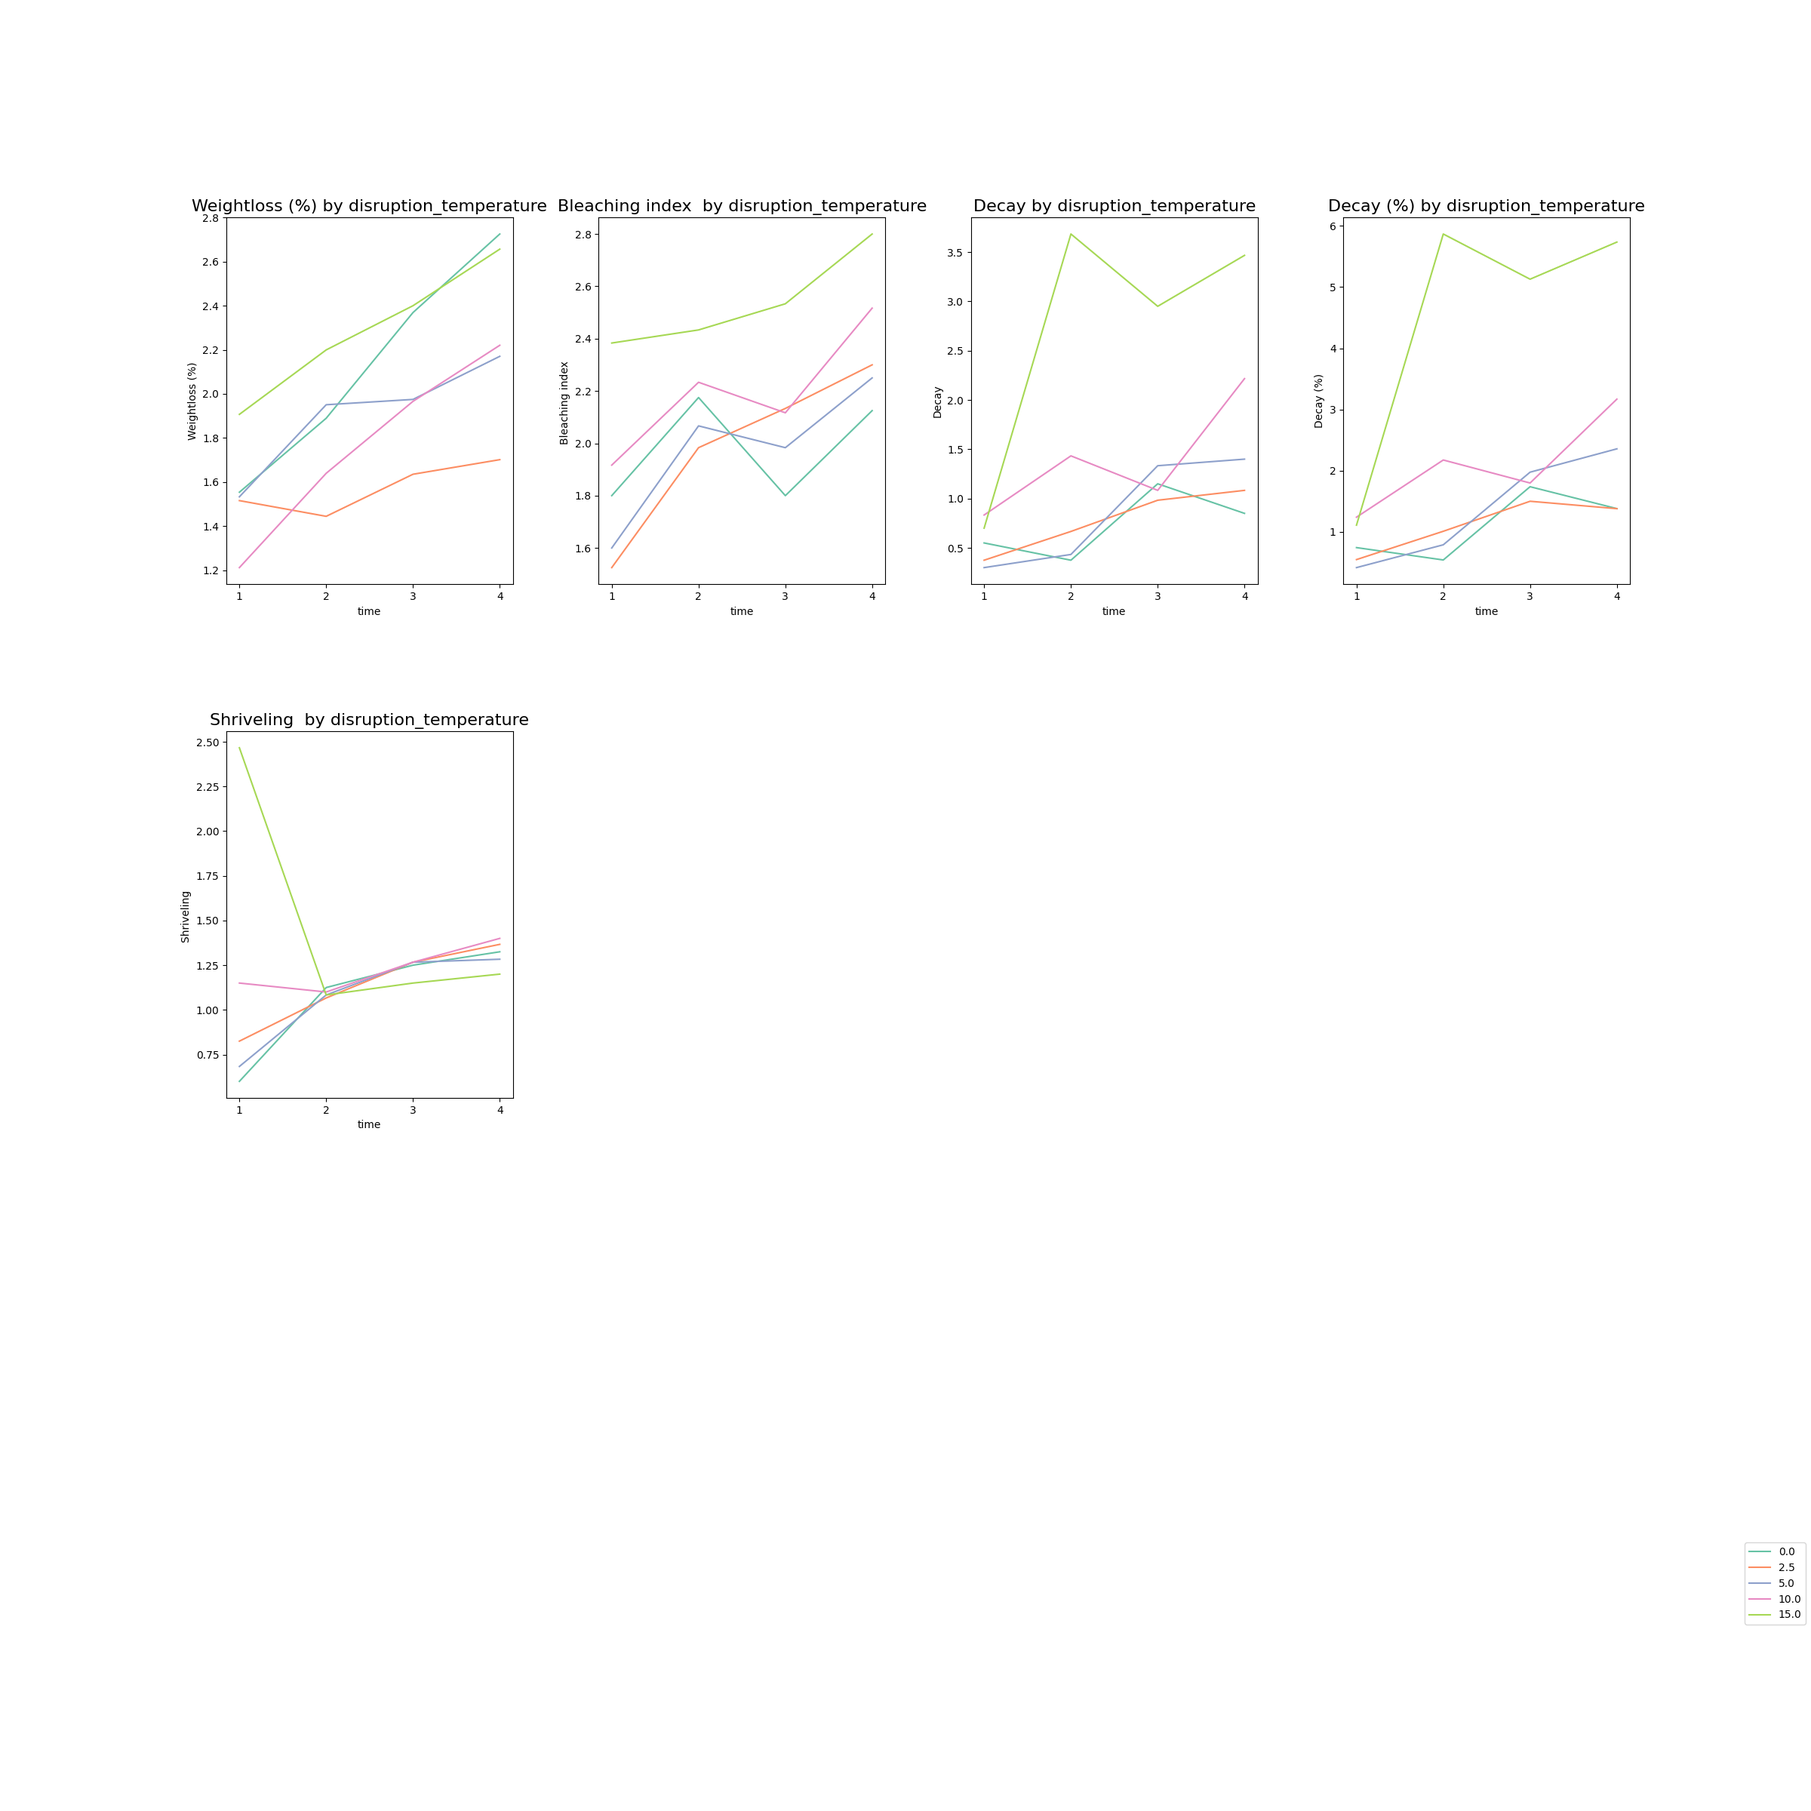
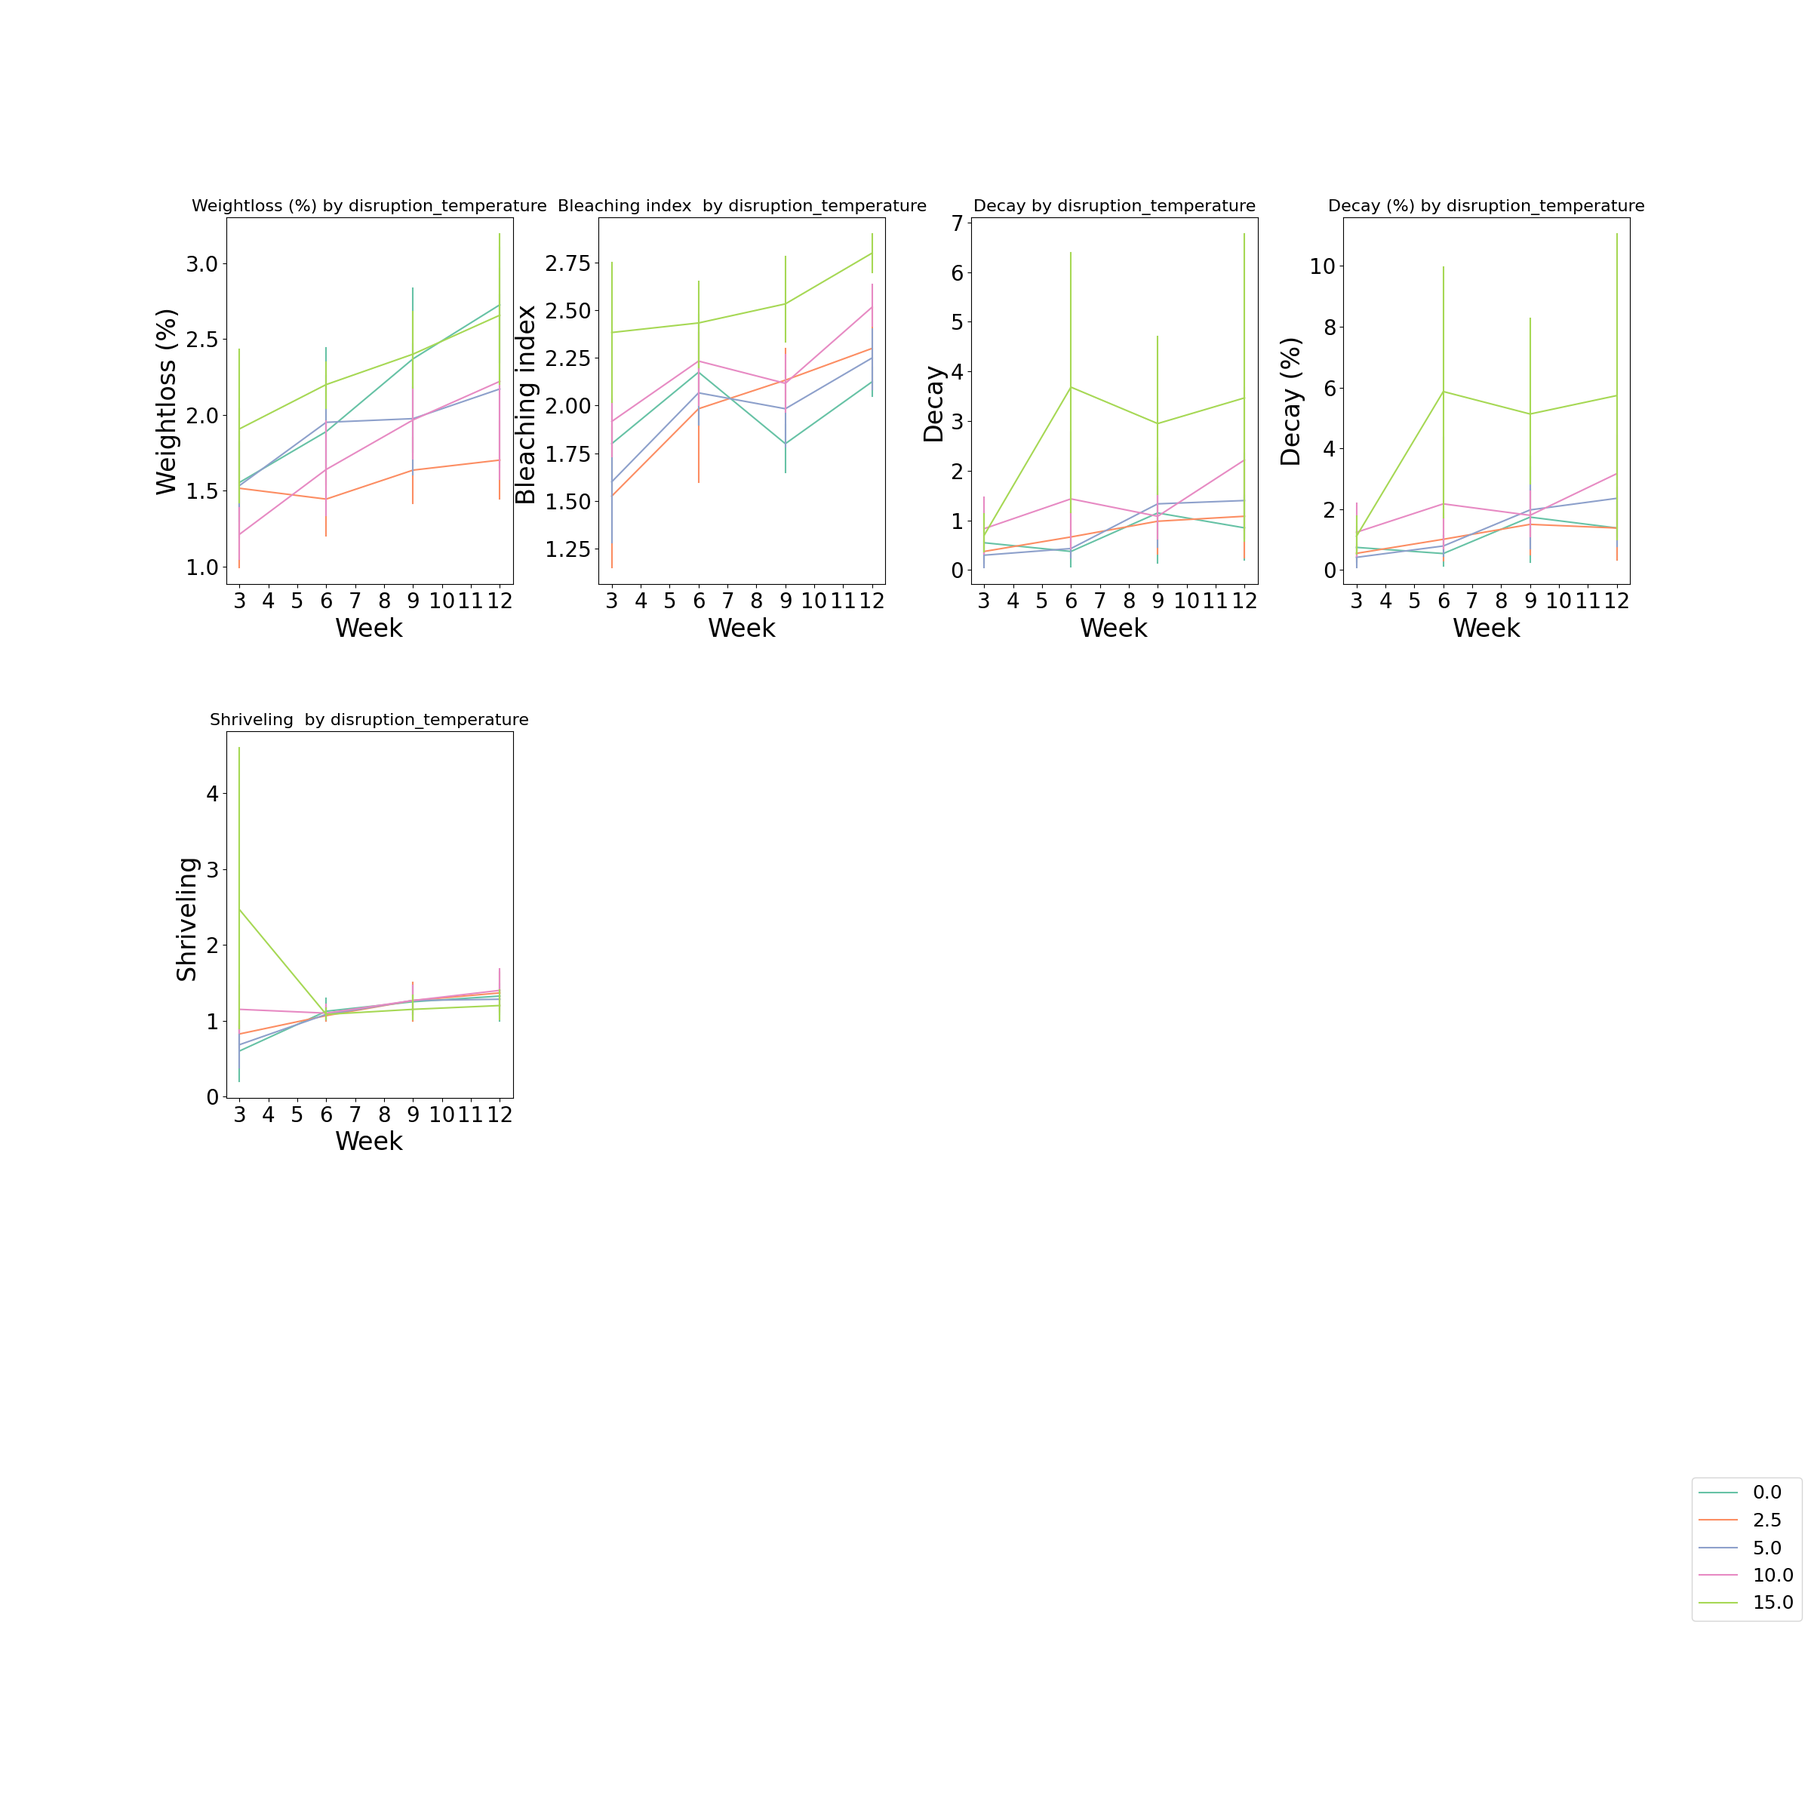
sorted heatmap + labels

diff --git a/main.py b/main.py
@@ -7,7 +7,11 @@ import matplotlib.ticker as ticker
 import numpy as np
 from collections import Counter
 import copy
+from tsfresh import extract_features, extract_relevant_features, select_features
+from tsfresh.utilities.dataframe_functions import impute
+from tsfresh.feature_extraction import ComprehensiveFCParameters
 import datetime
+import tsfresh
 
 pd.options.mode.chained_assignment = None
 PATH = 'data/Grapes-Vineyard A.xlsx'
@@ -41,7 +45,7 @@ COLS_ONLY_OUT = ['Weightloss (%)', 'Bleaching index ', 'Decay', 'Decay (%)', 'Sh
 NOT_PRINT_TRENDS = ['Vineyard', 'Treatment', 'Replication', 'Time', 'Vineyard_Number_of_measures', 'Vineyard_index',
                     'Vineyard_Std_index', 'Vineyard_Incidence', 'new_time', 'treatment', 'mapped_period']
 
-DIMS_FOR_GRAPHS = ['Vineyard', 'new_time', 'disruption_temperature', 'disruption_length']
+DIMS_FOR_GRAPHS = ['Vineyard', 'new_time', 'disruption_temperature', 'disruption_length', 'Treatment']
 COLS_HUE = ['disruption_length', 'disruption_temperature']
 
 
@@ -139,6 +143,7 @@ def get_prep_df(path, path_b, path_v, treatment_dict: dict) -> pd.DataFrame:
         'III': 3,
         'IV': 4
     }
+
     new_df['new_time'] = new_df['Time'].map(match).fillna(0)
     new_df = new_df.merge(pd.DataFrame(treatment_dict).T[[1, 3]], how='left', left_on='Treatment', right_index=True)
     new_df.rename(columns={1: 'disruption_length', 3: 'disruption_temperature'}, inplace=True)
@@ -150,15 +155,18 @@ def plot_correl_matrix(corr_mat: pd.DataFrame, correlation_name: str):
     :param corr_mat: correlation matrix prepared to create the datafram
     :return: figure of correlation matrix
     '''
+
     corr_mat.index = pd.CategoricalIndex(corr_mat.index)
     corr_mat.sort_index(level=0, inplace=True)
     sns.set(font_scale=0.6)
     if correlation_name == 'in_vs_in':
-        cols = corr_mat.columns.sort_values() # plot ordered heatmap
+        cols = corr_mat.columns.sort_values()  # plot ordered heatmap
         corr_mat = corr_mat[cols]
-        grpah = sns.heatmap(corr_mat, cmap='YlGnBu',vmin=-1, vmax=1, annot=True)
+        mask = np.triu(np.ones_like(corr_mat)).astype(bool)
+        grpah = sns.heatmap(corr_mat, mask=mask, square=True, cmap='YlGnBu', vmin=-1, vmax=1, annot=True, fmt='.2f')
+        grpah.invert_xaxis()
     else:
-        grpah = sns.heatmap(corr_mat, cmap='YlGnBu', vmin=-1, vmax=1, annot=True)
+        grpah = sns.heatmap(corr_mat, cmap='YlGnBu', vmin=-1, vmax=1, annot=True, fmt='.3f')
     plt.rcParams["axes.labelsize"] = 15
     fig5 = plt.gcf()
     plt.tight_layout()
@@ -181,7 +189,7 @@ def create_pearson_correl(df: pd.DataFrame, col_list_in: list, col_list_out: lis
     # in features vs in features
     df_in = df[col_list_in]
     correl = df_in.corr()
-    plot_correl_matrix(correl,correlation_name='in_vs_in')
+    plot_correl_matrix(correl, correlation_name='in_vs_in')
 
     # in features vs. out features
     df_out = df[col_list_out]
@@ -193,7 +201,7 @@ def create_pearson_correl(df: pd.DataFrame, col_list_in: list, col_list_out: lis
     out_cols = [col for col in correl_out.columns if '_out' in col]
     correl_out = correl_out[out_cols]
     correl_out = correl_out[~correl_out.index.str.contains('_out')]
-    plot_correl_matrix(correl_out,correlation_name='in_vs_out')
+    plot_correl_matrix(correl_out, correlation_name='in_vs_out')
 
 
 def get_storage_per_treatment(storage_df: dict, exp_desc: dict):
@@ -246,6 +254,23 @@ def map_weeks(row):
         return 9999
 
 
+def get_data_from_tsfresh(treatment_num: int, df: pd.DataFrame, storage_features: list = ['Humidity', 'Temperature']):
+    '''
+    :param treatment_num: int that represnt the treatment. this will be the key for tsfresh package
+    :param df: dataframe of the storage frm treatment side. i.e. storage log per treatment
+    :param storage_features: list of all features exist in the log.
+    :return: df with x rows per each treatment, each row is a feature.
+    '''
+    data_for_tsfresh = df[['Date', 'Time', 'Humidity', 'Temperature']]
+    data_for_tsfresh['treatment'] = treatment_num
+    data_for_tsfresh.reset_index(inplace=True)
+    tsfresh_extracted_features = {}
+    for feature in storage_features:
+        data_tsfresh = data_for_tsfresh[['treatment', 'index', feature]]
+        extracted_features = extract_features(data_tsfresh, column_id='treatment', column_sort='index')
+        tsfresh_extracted_features[feature] = extracted_features
+    return pd.concat([tsfresh_extracted_features['Humidity'],tsfresh_extracted_features['Temperature']],axis=1)
+
 def get_relevant_data_per_period(storage_dict: dict):
     '''
     :param storage_dict: dictionary contians storage data
@@ -262,7 +287,17 @@ def get_relevant_data_per_period(storage_dict: dict):
             relevant_data['std_temp_in_period'] = relevant_data['Temperature'].std()
             relevant_data['avg_humidity_in_period'] = relevant_data['Humidity'].mean()
             relevant_data['std_humidity_in_period'] = relevant_data['Humidity'].std()
+            ######### Omer / Demayo - this are the problem part - I first use this get_data_from_tsfresh
+            #  this function is OK. Now I want to take the result of this function and
+            # combine it with the last row of relevant_data (relevant_data.iloc[-1:])
+            # the problem is when I use cross join, some columns are disappearing, and it makes no sense.
+            #
+            tsfresh_treatment_data = get_data_from_tsfresh(treatment_num=treatments, df=relevant_data,
+                                                           storage_features=['Humidity', 'Temperature'])
+            all_storage_and_tsfresh_data = pd.merge(relevant_data.iloc[-1:], tsfresh_treatment_data, how='cross')
+            #this is what I want to do --> final_storage_data_per_treatment[i] = all_storage_and_tsfresh_data
             final_storage_data_per_treatment[i] = relevant_data.iloc[-1:]
+
         data_storage_for_all_periods[treatments] = pd.concat(final_storage_data_per_treatment)
     return pd.concat(data_storage_for_all_periods)
 
@@ -285,7 +320,8 @@ def flatten_data_to_grpah(dim_list: list, df: pd.DataFrame, col_name: str, col_n
     return df_for_graph
 
 
-def plot_graph(df: pd.DataFrame, col_name: str, dim_list: list, hue: str, tmp_dim_list: list, axs):
+def plot_graph(df: pd.DataFrame, col_name: str, dim_list: list, hue: str, tmp_dim_list: list, axs,
+               dist_week=None, dist_temp=None):
     '''
 
     :param df: flatten data frame with structered known data
@@ -300,12 +336,20 @@ def plot_graph(df: pd.DataFrame, col_name: str, dim_list: list, hue: str, tmp_di
     dim_list_for_grpah = dim_list + [col_name]
     sns.set_palette("Set2")
     axs = sns.lineplot(data=df_plot, x="new_time",
-                       y=col_name, hue=hue, ci=None, legend=True, palette='Set2')
-
-    # sns.color_palette("Paired")
+                       y=col_name, hue=hue, ci=95, legend=True, palette='Set2',
+                       err_style="bars")
+    if df_plot is None:
+        axs = sns.lineplot(data=pd.DataFrame(), x="new_time",
+                           y=col_name, hue=hue)
     axs.xaxis.set_major_locator(ticker.MultipleLocator(1))
-    axs.set(xlabel='time', ylabel=col_name)  # , title=col_name + 'by ' + hue)
-    axs.set_title(label=col_name + ' by ' + hue, size=16)
+    axs.set(xlabel='time', ylabel=col_name)
+    axs.tick_params(axis='both', labelsize=20)
+    axs.set_xlabel('Week', fontsize=24)
+    axs.set_ylabel(col_name, fontsize=24)
+    if dist_week:
+        axs.set_title(label=col_name + ':  weeks_dist: ' + str(dist_week) + '  temp_dist: ' + str(dist_temp), size=14)
+    else:
+        axs.set_title(label=col_name + ' by ' + hue, size=16)
     axs.plot()
 
 
@@ -375,9 +419,11 @@ def create_all_subplots(features_list: list, full_storage_data: pd.DataFrame, da
                                                        1] if features_list_t0 is not None else None)  # take t0 data if exist
             df_plot_check = data_for_grpah.fillna(np.inf).groupby(dimension_list)[[tup[0]]].mean().replace(np.inf,
                                                                                                            np.nan).reset_index()
+            # new_df['new_time'] = new_df['Time'].map(match).fillna(0)
             data_for_grpah['disruption_length'] = np.where(data_for_grpah['disruption_length'] == 12, 0,
                                                            data_for_grpah[
                                                                'disruption_length'])  # mapping 12 to 0 for graphs
+            data_for_grpah['new_time'] = data_for_grpah['new_time'] * 3
             if (df_plot_check[[hue, tup[0]]][tup[0]]).nunique() > max(df_plot_check[hue].nunique(), 4):
                 ax = fig.add_subplot(Rows, ncols, i_print)
                 plot_graph(df=data_for_grpah, col_name=tup[0], dim_list=dimension_list, hue=hue,
@@ -385,32 +431,99 @@ def create_all_subplots(features_list: list, full_storage_data: pd.DataFrame, da
                 i_print += 1
                 ax.get_legend().remove()
         handles, labels = ax.get_legend_handles_labels()
-        fig.legend(handles, labels, loc='lower right', bbox_to_anchor=(1, 0.1))
+        fig.legend(handles, labels, fontsize=18, loc='lower right', bbox_to_anchor=(1, 0.1))
         fig2 = plt.gcf()
         plt.show()
         plt.draw()
         fig2.savefig('figures_update/' + str(data_place_in_dict) + '_' + hue + '_' + str(i) + '.png')
 
 
+def create_all_subplots_per_each_fruit_feature(features_list: list, full_storage_data: pd.DataFrame,
+                                               data_place_in_dict: int,
+                                               features_list_t0: list = None, dimension_list=DIMS_FOR_GRAPHS
+                                               ):
+    '''
+
+    :return: number of facets, in each facet there will be subplots
+    '''
+    temp_dim_list = copy.copy(DIMS_FOR_GRAPHS)
+    temp_dim_list.remove("new_time")
+
+    # Compute Rows required
+    Cols = full_storage_data['disruption_length'].nunique()
+    Rows = full_storage_data['disruption_temperature'].nunique()
+
+    data = (features_list, features_list_t0, range(len(features_list)))
+    if features_list_t0 is None:
+        data = (features_list, range(len(features_list)))
+
+    # loop for each feature
+    for i, feature in enumerate(data[0]):
+        fig = plt.figure(figsize=(24, 24))
+        fig.subplots_adjust(hspace=0.4, wspace=0.3)
+        i_print = 1
+        # loop for each combination of length & temp
+        # for tup in zip(*data):
+        data_for_grpah = flatten_data_to_grpah(dim_list=dimension_list, df=full_storage_data, col_name=data[0][i],
+                                               col_name_t0=data[1][
+                                                   i] if features_list_t0 is not None else None)  # take t0 data if exist
+        data_for_grpah['new_time'] = data_for_grpah['new_time'] * 3
+        # ax = fig.add_subplot(Rows, Cols, i_print)
+        for temp in sorted(full_storage_data['disruption_temperature'].unique()):
+            for length in sorted(full_storage_data['disruption_length'].unique()):
+                data_for_grpah['disruption_length'] = np.where(data_for_grpah['disruption_length'] == 12, 0,
+                                                               data_for_grpah['disruption_length'])
+                ax = fig.add_subplot(Rows, Cols, i_print)
+
+                if length != 12:
+                    plot_data_df = data_for_grpah[(data_for_grpah['disruption_temperature'] == temp) & (
+                                data_for_grpah['disruption_length'] == length)]
+                elif temp == 0:
+                    plot_data_df = data_for_grpah[(data_for_grpah['disruption_temperature'] == temp)]
+                else:
+                    plot_data_df = data_for_grpah[(data_for_grpah['disruption_temperature'] == temp) & (
+                                data_for_grpah['disruption_length'] == length)]
+                plot_graph(df=plot_data_df, col_name=data[0][i], dim_list=dimension_list, hue='Vineyard',
+                           tmp_dim_list=temp_dim_list, axs=ax, dist_week=0 if length == 12 else length,
+                           dist_temp=temp)
+                i_print += 1
+                if len(plot_data_df):
+                    ax.get_legend().remove()
+        handles, labels = ax.get_legend_handles_labels()
+        fig.legend(handles, labels, fontsize=18, loc='lower right', bbox_to_anchor=(1, 0.1))
+        fig2 = plt.gcf()
+        plt.show()
+        plt.draw()
+        fig2.savefig('features_by_matrix/' + str(data_place_in_dict) + '_' + feature + '_' + str(i) + '.png')
+
+
 if __name__ == '__main__':
     raw_data = get_prep_df(path=PATH, path_b=PATH_B, path_v=PATH_VINYARDS, treatment_dict=TREAT_DESCRIPTION)
     full_data_w_storage = get_data_storage(path_storage=PATH_STORAGE, treat_dict=TREAT_DESCRIPTION)
+
+    # print all subplots
     relevant_t0_cols, relevant_cols = get_all_t0(df=full_data_w_storage)
     storage_list = list((Counter(full_data_w_storage) - Counter(COLS_ONLY_OUT) - Counter(relevant_t0_cols) - Counter(
         relevant_cols) - Counter(NOT_PRINT_TRENDS) - Counter(COLS_HUE)).elements())
 
-    # print all subplots
-    data_to_plot = { 1: [relevant_cols, relevant_t0_cols],  # data that collected both in and out
+    data_to_plot = {1: [relevant_cols, relevant_t0_cols],  # data that collected both in and out
                     2: [COLS_ONLY_OUT, 'None'],  # data collected only in out storage
-                    3: [storage_list, 'None'],  # data relevant for storage only
+                    3: [storage_list, 'None']  # data relevant for storage only
                     }
 
     for feature_list in enumerate(data_to_plot.values()):
         create_all_subplots(features_list=feature_list[1][0], full_storage_data=full_data_w_storage,
                             features_list_t0=feature_list[1][1] if feature_list[1][1] != 'None' else None,
                             dimension_list=DIMS_FOR_GRAPHS, ncols=4, data_place_in_dict=feature_list[0])
+    #
 
-    # create correlation matrix
-    in_cols = [col for col in raw_data.columns if 'T0' in col]
-    create_pearson_correl(raw_data, col_list_in=in_cols, col_list_out=COLS_OUT)
+    # matrix plotting
+    # for feature_list in enumerate(data_to_plot.values()):
+    #     create_all_subplots_per_each_fruit_feature(features_list=feature_list[1][0], full_storage_data=full_data_w_storage,
+    #                             features_list_t0=feature_list[1][1] if feature_list[1][1] != 'None' else None,
+    #                             dimension_list=DIMS_FOR_GRAPHS, data_place_in_dict=feature_list[0])
+
+    # # create correlation matrix
+    # in_cols = [col for col in raw_data.columns if 'T0' in col and col!= 'Shattering(%) (T0)']
+    # create_pearson_correl(raw_data, col_list_in=in_cols, col_list_out=COLS_OUT)
     print("Done!!!")
